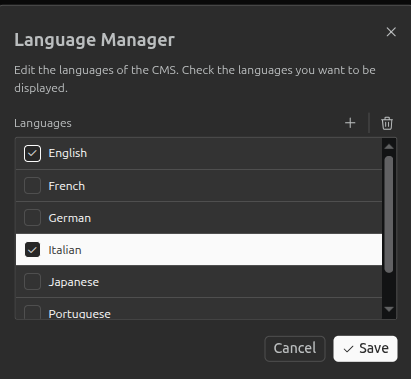
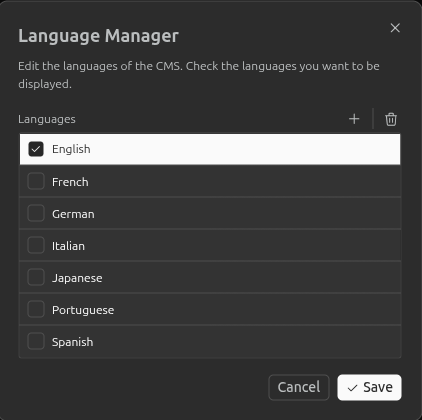
docs(IVYPORTAL-20029): update instructions for adding a new language in Portal

diff --git a/Documentation/portal-guide/source/portal-developer-guide/customization/add-new-language.rst b/Documentation/portal-guide/source/portal-developer-guide/customization/add-new-language.rst
@@ -34,7 +34,8 @@ HowTo: Add a New Language to Portal
 
      |cms-language-browser-search|
 
-   - Check the new language and click :guilabel:`Save`.
+   - Click :guilabel:`Save`. You do not need to select the new language as the displayed language here.
+     You can choose it later in :guilabel:`My Profile` in Portal.
 
      |cms-language-manager-select-italian|
 
@@ -50,7 +51,7 @@ HowTo: Add a New Language to Portal
 
 #. **Deploy**
 
-   Deploy your project together with Portal, then select the new language in the user settings to verify the translations.
+   Deploy your project together with Portal, then select the new language in :guilabel:`My Profile` to verify the translations.
 
 .. tip::
    Content Objects without a value in the new language are displayed in the default language.
